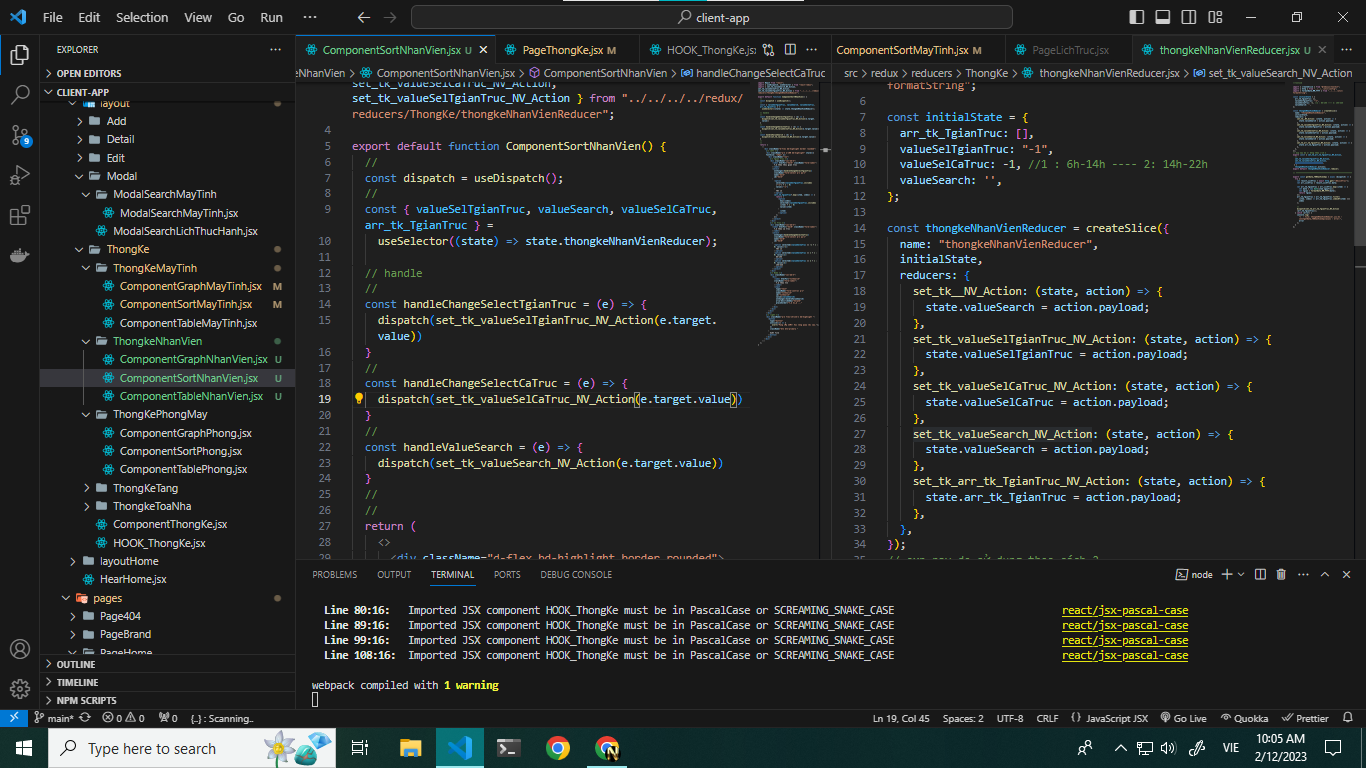
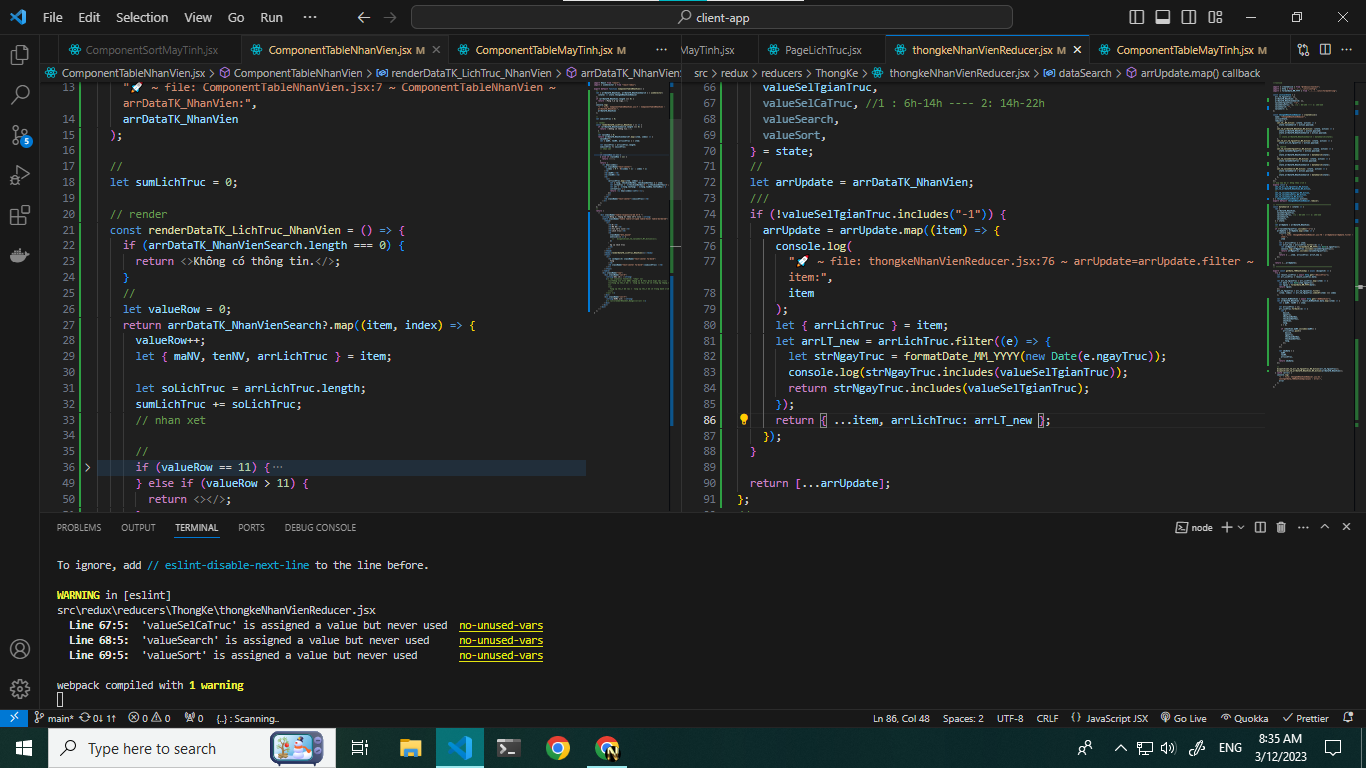
TK nhan vien - table: data api - search

diff --git a/src/redux/reducers/ThongKe/thongkeNhanVienReducer.jsx b/src/redux/reducers/ThongKe/thongkeNhanVienReducer.jsx
@@ -6,9 +6,12 @@ import { formatDate_MM_YYYY } from "../../../util/formatString";
 
 const initialState = {
   arr_tk_TgianTruc: [],
+  arrDataTK_NhanVien: [],
+  arrDataTK_NhanVienSearch: [],
   valueSelTgianTruc: "-1",
   valueSelCaTruc: -1, //1 : 6h-14h ---- 2: 14h-22h
-  valueSearch: '',
+  valueSearch: "",
+  valueSort: 1,
 };
 
 const thongkeNhanVienReducer = createSlice({
@@ -18,30 +21,74 @@ const thongkeNhanVienReducer = createSlice({
     set_tk__NV_Action: (state, action) => {
       state.valueSearch = action.payload;
     },
-    set_tk_valueSelTgianTruc_NV_Action: (state, action) => {
-      state.valueSelTgianTruc = action.payload;
-    },
-    set_tk_valueSelCaTruc_NV_Action: (state, action) => {
-      state.valueSelCaTruc = action.payload;
-    },
-    set_tk_valueSearch_NV_Action: (state, action) => {
-      state.valueSearch = action.payload;
+    set_tk_arrDataTK_NhanVien_NV_Action: (state, action) => {
+      state.arrDataTK_NhanVien = action.payload;
+      state.arrDataTK_NhanVienSearch = action.payload;
+      //
+      // state.arrDataTK_NhanVienSearch = dataSearch(state);
     },
     set_tk_arr_tk_TgianTruc_NV_Action: (state, action) => {
       state.arr_tk_TgianTruc = action.payload;
     },
+    // search
+    set_tk_valueSelTgianTruc_NV_Action: (state, action) => {
+      state.valueSelTgianTruc = action.payload;
+      //
+      state.arrDataTK_NhanVienSearch = dataSearch(state);
+    },
+    set_tk_valueSelCaTruc_NV_Action: (state, action) => {
+      state.valueSelCaTruc = action.payload;
+      //
+      state.arrDataTK_NhanVienSearch = dataSearch(state);
+    },
+    set_tk_valueSearch_NV_Action: (state, action) => {
+      state.valueSearch = action.payload;
+      //
+      state.arrDataTK_NhanVienSearch = dataSearch(state);
+    },
   },
 });
 // exp nay de sử dụng theo cách 2
-export const { set_tk_arr_tk_TgianTruc_NV_Action,
+export const {
+  set_tk_arr_tk_TgianTruc_NV_Action,
+  set_tk_arrDataTK_NhanVien_NV_Action,
   //
   set_tk_valueSelTgianTruc_NV_Action,
   set_tk_valueSelCaTruc_NV_Action,
   set_tk_valueSearch_NV_Action,
- } =
-  thongkeNhanVienReducer.actions;
+} = thongkeNhanVienReducer.actions;
 export default thongkeNhanVienReducer.reducer;
 
+// +++++++++++++++++++++++++++++++++++++++++++++++++++++++
+const dataSearch = (state) => {
+  let {
+    arrDataTK_NhanVien,
+    valueSelTgianTruc,
+    valueSelCaTruc, //1 : 6h-14h ---- 2: 14h-22h
+    valueSearch,
+    valueSort,
+  } = state;
+  //
+  let arrUpdate = arrDataTK_NhanVien;
+  ///
+  if (!valueSelTgianTruc.includes("-1")) {
+    arrUpdate = arrUpdate.map((item) => {
+      console.log(
+        "🚀 ~ file: thongkeNhanVienReducer.jsx:76 ~ arrUpdate=arrUpdate.filter ~ item:",
+        item
+      );
+      let { arrLichTruc } = item;
+      let arrLT_new = arrLichTruc.filter((e) => {
+        let strNgayTruc = formatDate_MM_YYYY(new Date(e.ngayTruc));
+        console.log(strNgayTruc.includes(valueSelTgianTruc));
+        return strNgayTruc.includes(valueSelTgianTruc);
+      });
+      return { ...item, arrLichTruc: arrLT_new };
+    });
+  }
+
+  return [...arrUpdate];
+};
 // ++++++++++++++++++++++++++++++++++++++++++++++++++++++++
 
 export const getData_TKNhanVienApi = async (dispatch) => {
@@ -58,8 +105,43 @@ export const getData_TKNhanVienApi = async (dispatch) => {
       (item, index) => arr_tk_TgianTruc.indexOf(item) === index
     );
 
+    let result_DsNhanVien = await http.get("/DSNhanVien");
+    let arrDataTK_NhanVien = result_DsNhanVien.data.map((item) => {
+      let { maNV, tenNV } = item;
+
+      let arrLichTruc = [];
+      arr_LichTruc.forEach((e) => {
+        let {
+          maLich,
+          ngayTruc,
+          thoiGianBatDau,
+          thoiGianKetThuc,
+          nhanVien,
+          tang,
+        } = e;
+
+        if (nhanVien.maNV.includes(maNV)) {
+          arrLichTruc.push({
+            maLich,
+            ngayTruc,
+            thoiGianBatDau,
+            thoiGianKetThuc,
+            tang,
+          });
+        }
+      });
+
+      let objData = {
+        maNV,
+        tenNV,
+        arrLichTruc,
+      };
+      return objData;
+    });
+
     //
     dispatch(set_tk_arr_tk_TgianTruc_NV_Action(arr_tk_TgianTruc));
+    dispatch(set_tk_arrDataTK_NhanVien_NV_Action(arrDataTK_NhanVien));
   } catch (error) {
     console.log(
       "🚀 ~ file: thongkeNhanVienReducer.jsx:31 ~ constgetData_TKNhanVienApi=async ~ error:",

diff --git a/src/components/layout/ThongKe/ThongkeNhanVien/ComponentTableNhanVien.jsx b/src/components/layout/ThongKe/ThongkeNhanVien/ComponentTableNhanVien.jsx
@@ -1,9 +1,125 @@
-import React from 'react'
+import React from "react";
+import { useSelector } from "react-redux";
 
 export default function ComponentTableNhanVien() {
+  //
+  let { arrDataTK_NhanVien, arrDataTK_NhanVienSearch } = useSelector(
+    (state) => state.thongkeNhanVienReducer
+  );
+  if (arrDataTK_NhanVien.length === 0) {
+    return <>Đang tìm số liệu.</>;
+  }
+  console.log(
+    "🚀 ~ file: ComponentTableNhanVien.jsx:7 ~ ComponentTableNhanVien ~ arrDataTK_NhanVien:",
+    arrDataTK_NhanVien
+  );
+
+  //
+  let sumLichTruc = 0;
+
+  // render
+  const renderDataTK_LichTruc_NhanVien = () => {
+    if (arrDataTK_NhanVienSearch.length === 0) {
+      return <>Không có thông tin.</>;
+    }
+    //
+    let valueRow = 0;
+    return arrDataTK_NhanVienSearch?.map((item, index) => {
+      valueRow++;
+      let { maNV, tenNV, arrLichTruc } = item;
+
+      let soLichTruc = arrLichTruc.length;
+      sumLichTruc += soLichTruc;
+      // nhan xet
+
+      //
+      if (valueRow == 11) {
+        return (
+          <tr key={index}>
+            <td className="text-center">
+              {index < 9 ? `0${index + 1}` : index + 1}
+            </td>
+            <td className="text-center">...</td>
+            <td className="text-center">...</td>
+            <td className="text-center">...</td>
+            <td className="text-center">...</td>
+            <td className="text-center">...</td>
+          </tr>
+        );
+      } else if (valueRow > 11) {
+        return <></>;
+      }
+      return (
+        <tr key={index}>
+          <td className="text-center">
+            {index < 9 ? `0${index + 1}` : index + 1}
+          </td>
+          <td>{maNV}</td>
+          <td>{tenNV}</td>
+          <td>
+            <ul>
+              {arrLichTruc.map((item, index) => {
+                let { tang, thoiGianBatDau, thoiGianKetThuc } = item;
+                let strCaTruc = `${thoiGianBatDau}h - ${thoiGianKetThuc}h`;
+                let str = `${tang.tenTang} - ${tang.toaNha.tenToaNha}( ${strCaTruc} )`;
+                return <li key={index}>{str}</li>;
+              })}
+            </ul>
+          </td>
+          <td className="text-center">{soLichTruc}</td>
+        </tr>
+      );
+    });
+  };
+  //
   return (
-    <div>
-      ComponentTableNhanVien
-    </div>
-  )
+    <>
+      <div className="table-responsive-md mt-5 ">
+        <strong>Bảng 1: Thống kê theo nhân viên </strong>
+        <table className="table table-striped table-hover table-bordered">
+          <thead>
+            <tr>
+              <th>#</th>
+              <th>Mã NV</th>
+              <th>Tên nhân viên</th>
+              <th>Lịch trực</th>
+              <th
+                className="btn_moune"
+                onClick={() => {
+                  //   dispatch(set_tk_valueSort_MT_Action(1));
+                }}
+              >
+                Số ca lịch trực
+              </th>
+            </tr>
+          </thead>
+          <tbody>{renderDataTK_LichTruc_NhanVien()}</tbody>
+          <tfoot>
+            <tr>
+              <td colSpan={4} className="text-center fw-bold">
+                Tổng
+              </td>
+              <td className="text-center fw-bold">{sumLichTruc} </td>
+            </tr>
+          </tfoot>
+        </table>
+        <div className="row">
+          <div className="col-5">
+            <strong>Ghi chú: </strong>
+            {/* <ul style={{ fontSize: "14px" }}>
+              <li>Thông tin trên được thống kê ở thời điểm hiện tại.</li>
+              <li>Tổng số thiết bị: là tổng số thiết bị có trong hệ thống.</li>
+              <li>
+                Tổng số thiết bị lỗi là tổng số thiết bị có trong danh sách.
+              </li>
+            </ul> */}
+          </div>
+          <div className="col-7">
+            <strong>Nhận xét: </strong>
+            {/* <ul>{renderNhanXet_Bang1()}</ul> */}
+          </div>
+        </div>
+      </div>
+    </>
+  );
 }

diff --git a/src/components/layout/ThongKe/ThongKeMayTinh/ComponentTableMayTinh.jsx b/src/components/layout/ThongKe/ThongKeMayTinh/ComponentTableMayTinh.jsx
@@ -29,7 +29,7 @@ export default function ComponentTableMayTinh() {
   let arrNhanXet_Tbi_Bang2 = [];
 
   const renderDataTK_MayTinh_bang1 = () => {
-    if (arrDataTK_MayTinhSearch_err.length === 0) {
+    if (arrDataTK_MayTinhSearch.length === 0) {
       return <>Không có thông tin.</>;
     }
 

diff --git a/README.md b/README.md
@@ -145,14 +145,33 @@
         + api thong báo - gửi ghi chú cùng thietbi bị lỗi  lưu data
         + btn sửa (bên cạnh textErr Thiet bị lỗi) hiên 1 modal chon cac tbi lỗi đã sủa xong cap nhật vao data;
         + chú ý cần cập nhật status ở mayTinhTHietbi và PhongMayPhanmem
-        + thông báo: 
+
+
+        + Ghi chú phong may: 
             - ma
-            - noteGhi err
-            - người ghi
-            - tgian ghi
-            - noteGhi sửa 
-            - người Sửa
-            - Tgian sửa
+            - phòng máy (mã phòng máy)
+            - nội dung 
+            - tgian lỗi
+            - người báo ( cái này là mã Tài khoản báo)
+            - tgian sửa
+            - người Sửa  ( cái này là mã Tài khoản sửa)
+            - DSPhanMem lỗi (list<PhanMem> )
+
+            
+        + Ghi chú May tính: 
+            - ma
+            - Máy tính (mã Máy tính)
+            - nội dung 
+            - tgian lỗi
+            - người báo ( cái này là mã Tài khoản báo)
+            - tgian sửa
+            - người Sửa  ( cái này là mã Tài khoản sửa)
+            - DSThieBi lỗi (list<ThietBiMay> )
+        
+        + note: 
+            - bên bảng phần mềm không cần hiện bảng ghi chú này
+            - bên bảng thiết bị không cần hiện bảng ghi chú này
+
 
 
 
